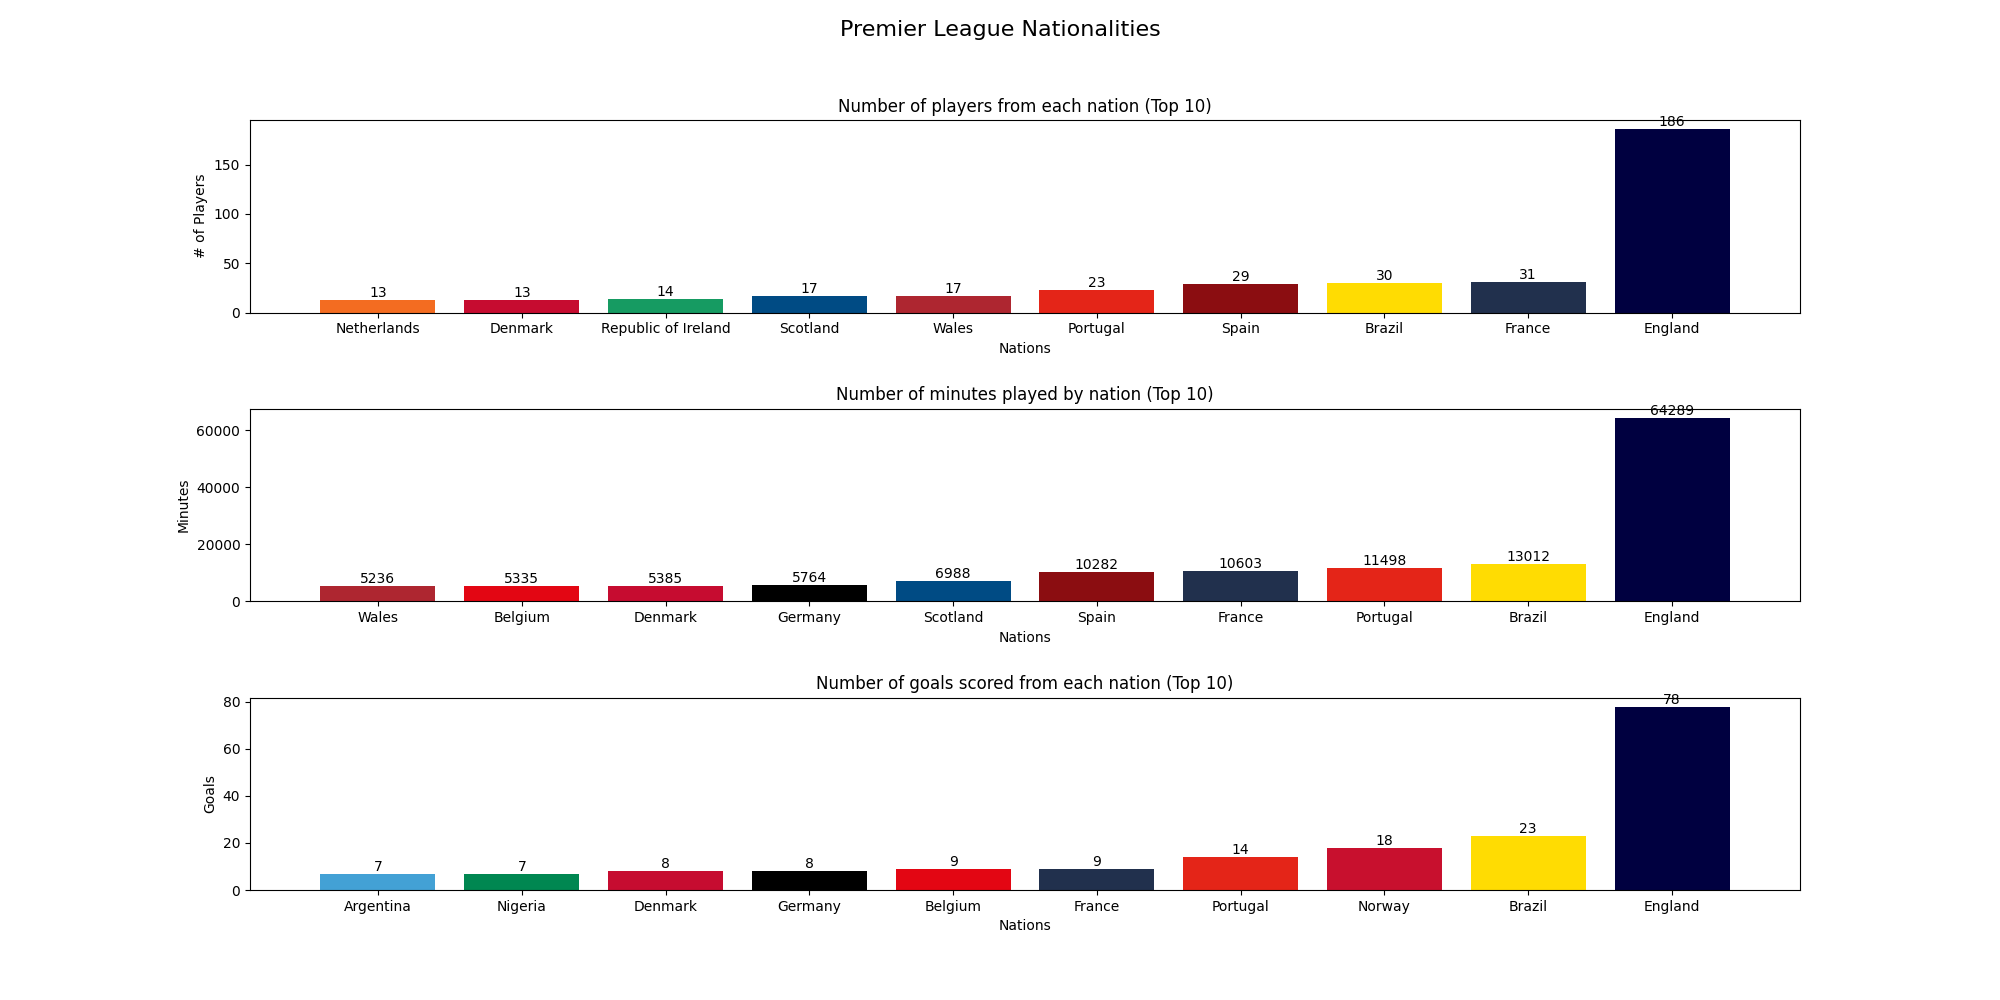
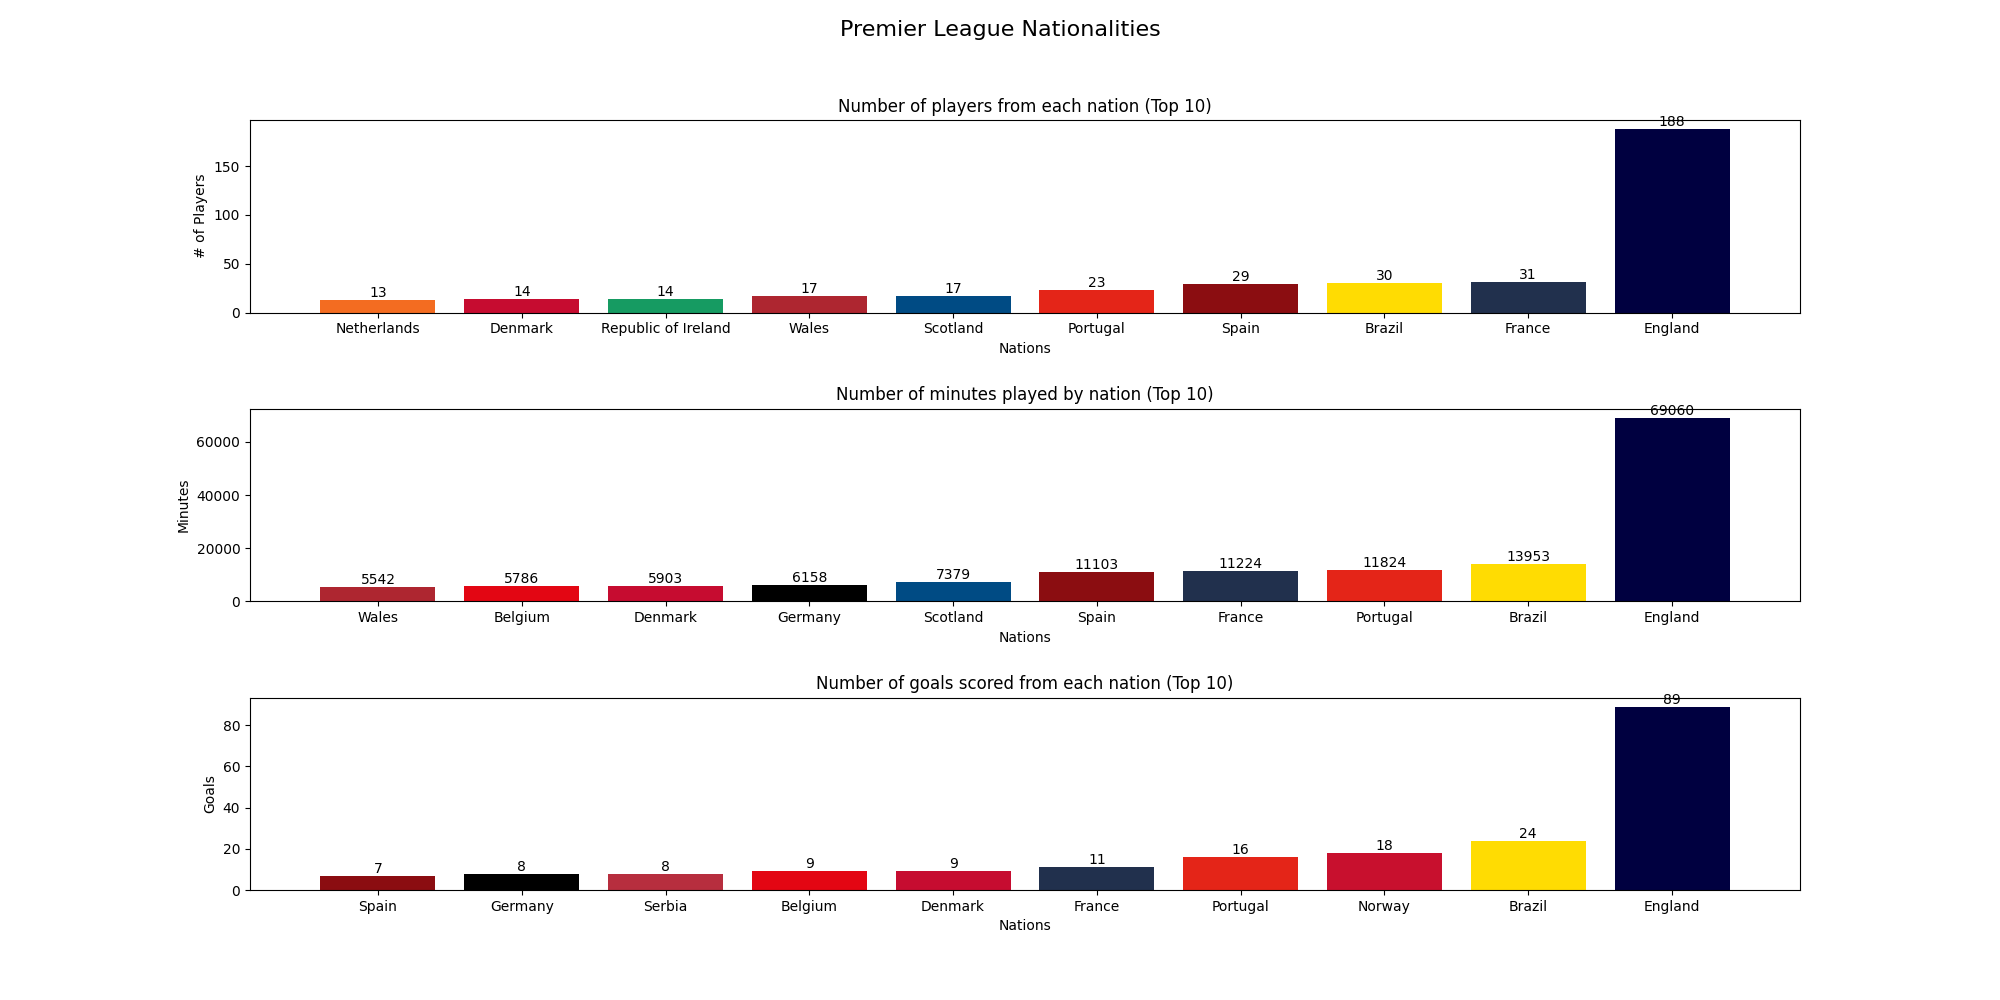
Automated getting goal data

diff --git a/nationalities.py b/nationalities.py
@@ -3,8 +3,40 @@ import matplotlib.pyplot as plt
 from matplotlib.gridspec import GridSpec
 import random
 import warnings
+import undetected_chromedriver as uc
+from bs4 import BeautifulSoup
 
 warnings.filterwarnings("ignore")
+
+
+def get_goals(url):
+    chrome_options = uc.ChromeOptions()
+    chrome_options.add_argument("--disable-extensions")
+    chrome_options.add_argument("--headless")
+    driver = uc.Chrome(chrome_options=chrome_options)
+
+    driver.get(url)
+
+    source = driver.page_source
+    driver.quit()
+    soup = BeautifulSoup(source, 'lxml')
+
+    rows = soup.find("table", id='stats_shooting').find("tbody").find_all("tr")
+
+    df_goals = pd.DataFrame(columns=['Nation', 'Goals'])
+    nation = []
+    goals = []
+
+    for row in rows:
+        cells = row.find_all("td")
+        if cells:
+            nation.append(cells[1].get_text())
+            goals.append(cells[7].get_text())
+
+    for i in range(len(goals)):
+        df_goals.loc[i] = [nation[i], int(goals[i])]
+
+    return df_goals
 
 
 def show_plots():
@@ -107,7 +139,9 @@ def dict_conversion(country):
                 'rs SRB': 'Serbia',
                 'hr CRO': 'Croatia',
                 'uy URU': 'Uruguay',
-                'xk KVX': 'Kosovo'}
+                'xk KVX': 'Kosovo',
+                'ua UKR': 'Ukraine',
+                'gh GHA': 'Ghana'}
     return countries.get(country)
 
 
@@ -122,16 +156,22 @@ def nations_played(urls):
         
         if competition == 'epl':
             comp_title = 'Premier League'
+            goals_url = 'https://fbref.com/en/comps/9/shooting/Premier-League-Stats'
         if competition == 'laliga':
             comp_title = 'La Liga'
+            goals_url = 'https://fbref.com/en/comps/12/shooting/La-Liga-Stats'
         if competition == 'bundesliga':
             comp_title = 'Bundesliga'
+            goals_url = 'https://fbref.com/en/comps/20/shooting/Bundesliga-Stats'
         if competition == 'seriea':
             comp_title = 'Serie A'
+            goals_url = 'https://fbref.com/en/comps/11/shooting/Serie-A-Stats'
         if competition == 'ligue1':
             comp_title = 'Ligue 1'
+            goals_url = 'https://fbref.com/en/comps/13/shooting/Ligue-1-Stats'
         if competition == 'ucl':
             comp_title = 'Uefa Champions League'
+            goals_url = 'https://fbref.com/en/comps/8/shooting/Champions-League-Stats'
 
         html = pd.read_html(url, header=0)
         df = html[0]
@@ -185,11 +225,7 @@ def nations_played(urls):
         ax1.set_xlabel('Nations')
         ax1.set_ylabel('Minutes')
 
-        goals_csv = f'goals_csvs/{competition}_goals.csv'
-        df = pd.read_csv(goals_csv, usecols = [2, 8])
-        df = df.rename(columns={'Nation': 'Nation', 'Gls': 'Goals'})
-        df.drop(df[df['Goals'] <= 0].index, inplace = True)
-        df = df.astype({'Goals':'int'})
+        df = get_goals(goals_url)
 
         if competition != 'ucl':
             df_total_goals = pd.concat([df_total_goals, df], ignore_index=True)
@@ -211,7 +247,7 @@ def nations_played(urls):
         ax2.set_ylabel('Goals')
 
         fig.savefig(f'images/{competition}-nations.png')
-        plt.show()
+        # plt.show()
 
     fig = plt.figure(figsize=(20, 10))
     fig.subplots_adjust(hspace=0.5)
@@ -257,7 +293,7 @@ def nations_played(urls):
     ax2.set_ylabel('Minutes')
     
     fig.savefig(f'images/combined-number-nations.png')
-    plt.show()
+    # plt.show()
 
 
 def main():
@@ -278,4 +314,5 @@ def main():
     nations_played(league_urls)
 
 
-main()
+if __name__ == '__main__':
+    main()

diff --git a/test.py b/test.py
@@ -1,0 +1,40 @@
+import undetected_chromedriver as uc
+from selenium.webdriver.chrome.options import Options
+from bs4 import BeautifulSoup
+import pandas as pd
+
+
+def main():
+    chrome_options = uc.ChromeOptions()
+    chrome_options.add_argument("--disable-extensions")
+    chrome_options.add_argument("--headless")
+    driver = uc.Chrome(chrome_options=chrome_options)
+
+    driver.get('https://fbref.com/en/comps/9/shooting/Premier-League-Stats')
+
+    source = driver.page_source
+    soup = BeautifulSoup(source, 'lxml')
+
+    rows = soup.find("table", id='stats_shooting').find("tbody").find_all("tr")
+
+    df_goals = pd.DataFrame(columns=['Nation', 'Goals'])
+    nation = []
+    goals = []
+
+    for row in rows:
+        cells = row.find_all("td")
+        if cells:
+            nation.append(cells[1].get_text())
+            goals.append(cells[7].get_text())
+
+    for i in range(len(goals)):
+        df_goals.loc[i] = [nation[i], goals[i]]
+
+    print(df_goals)
+            
+
+if __name__ == '__main__':
+    main()
+
+# Currenlty
+# france 176
